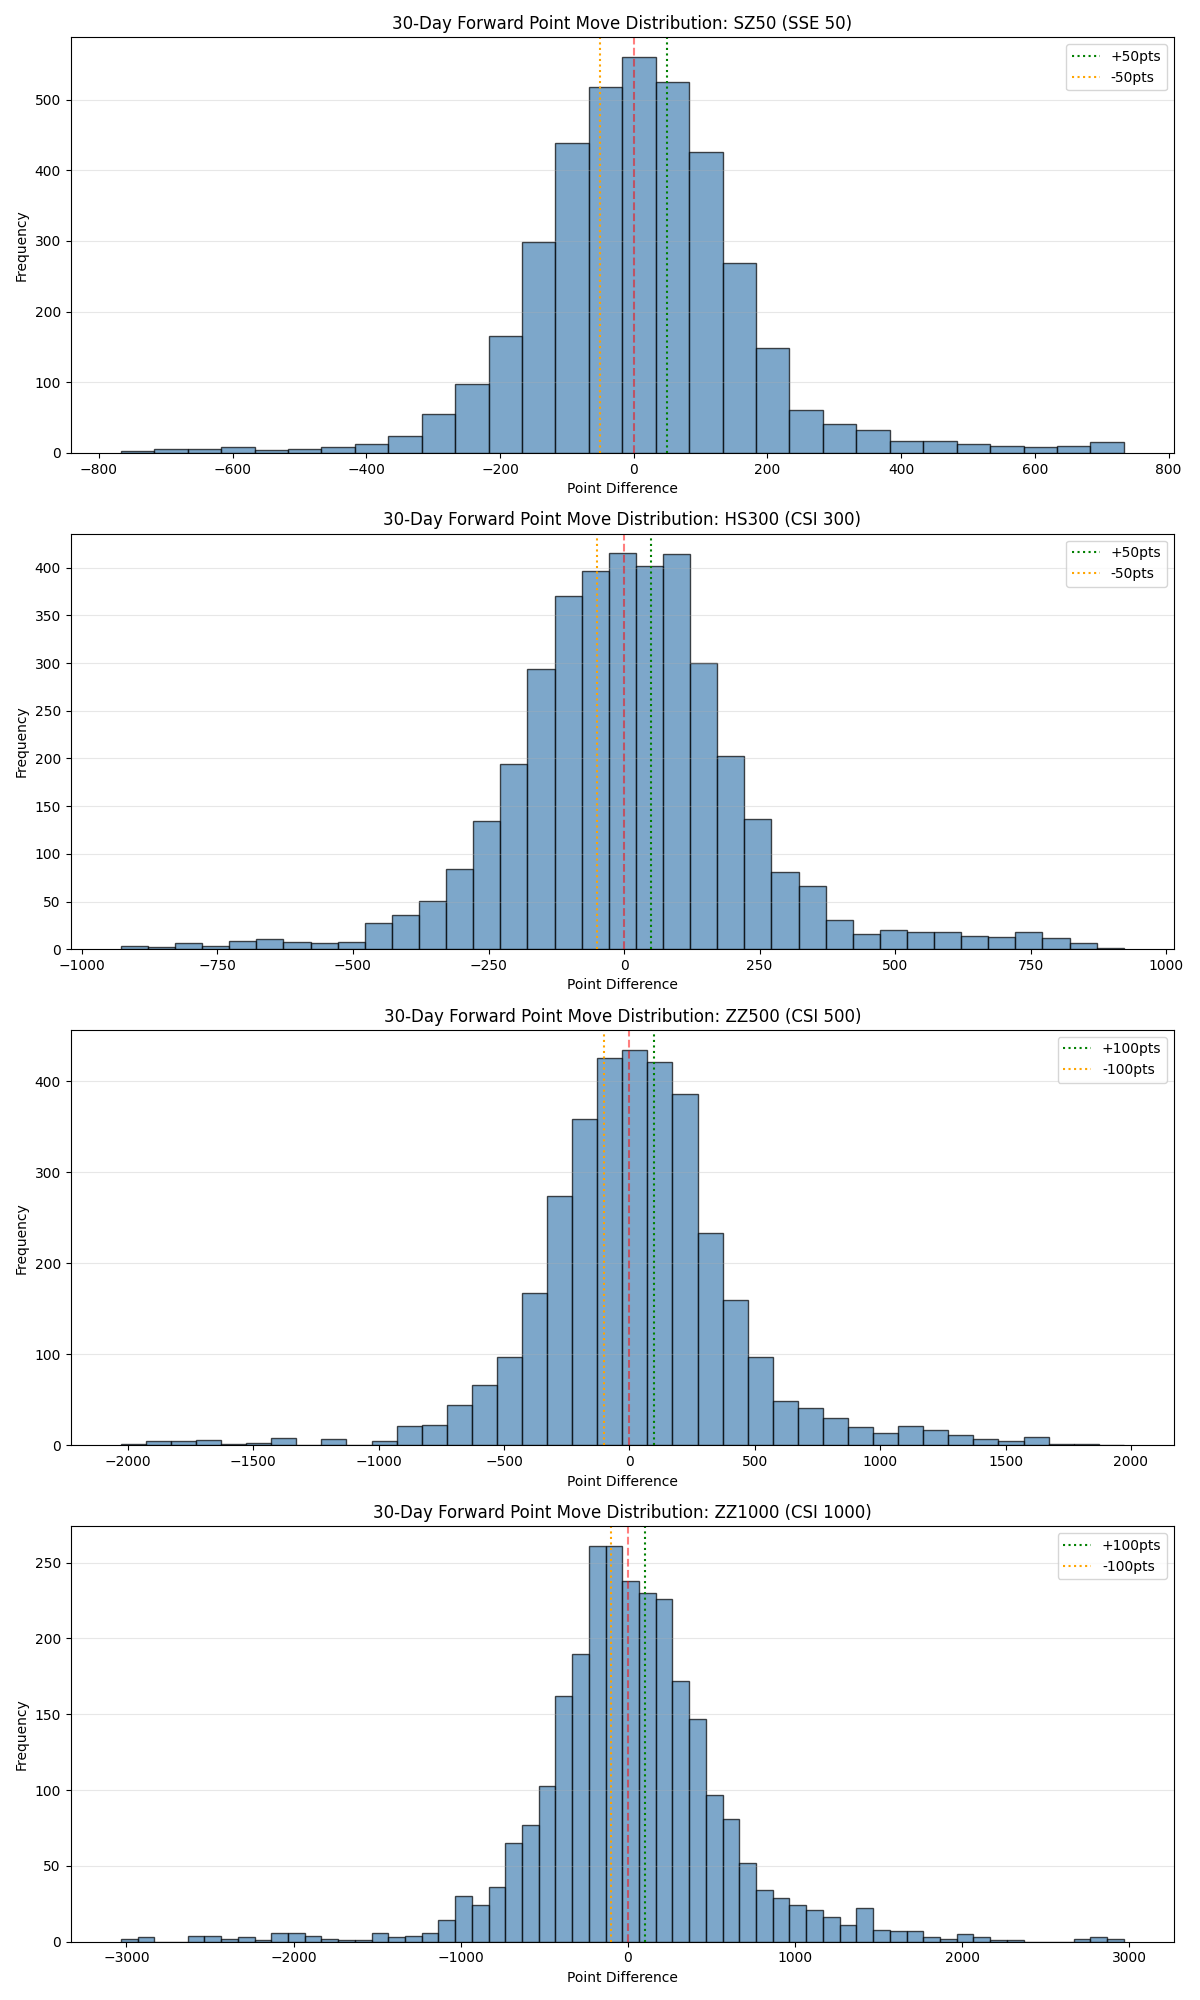
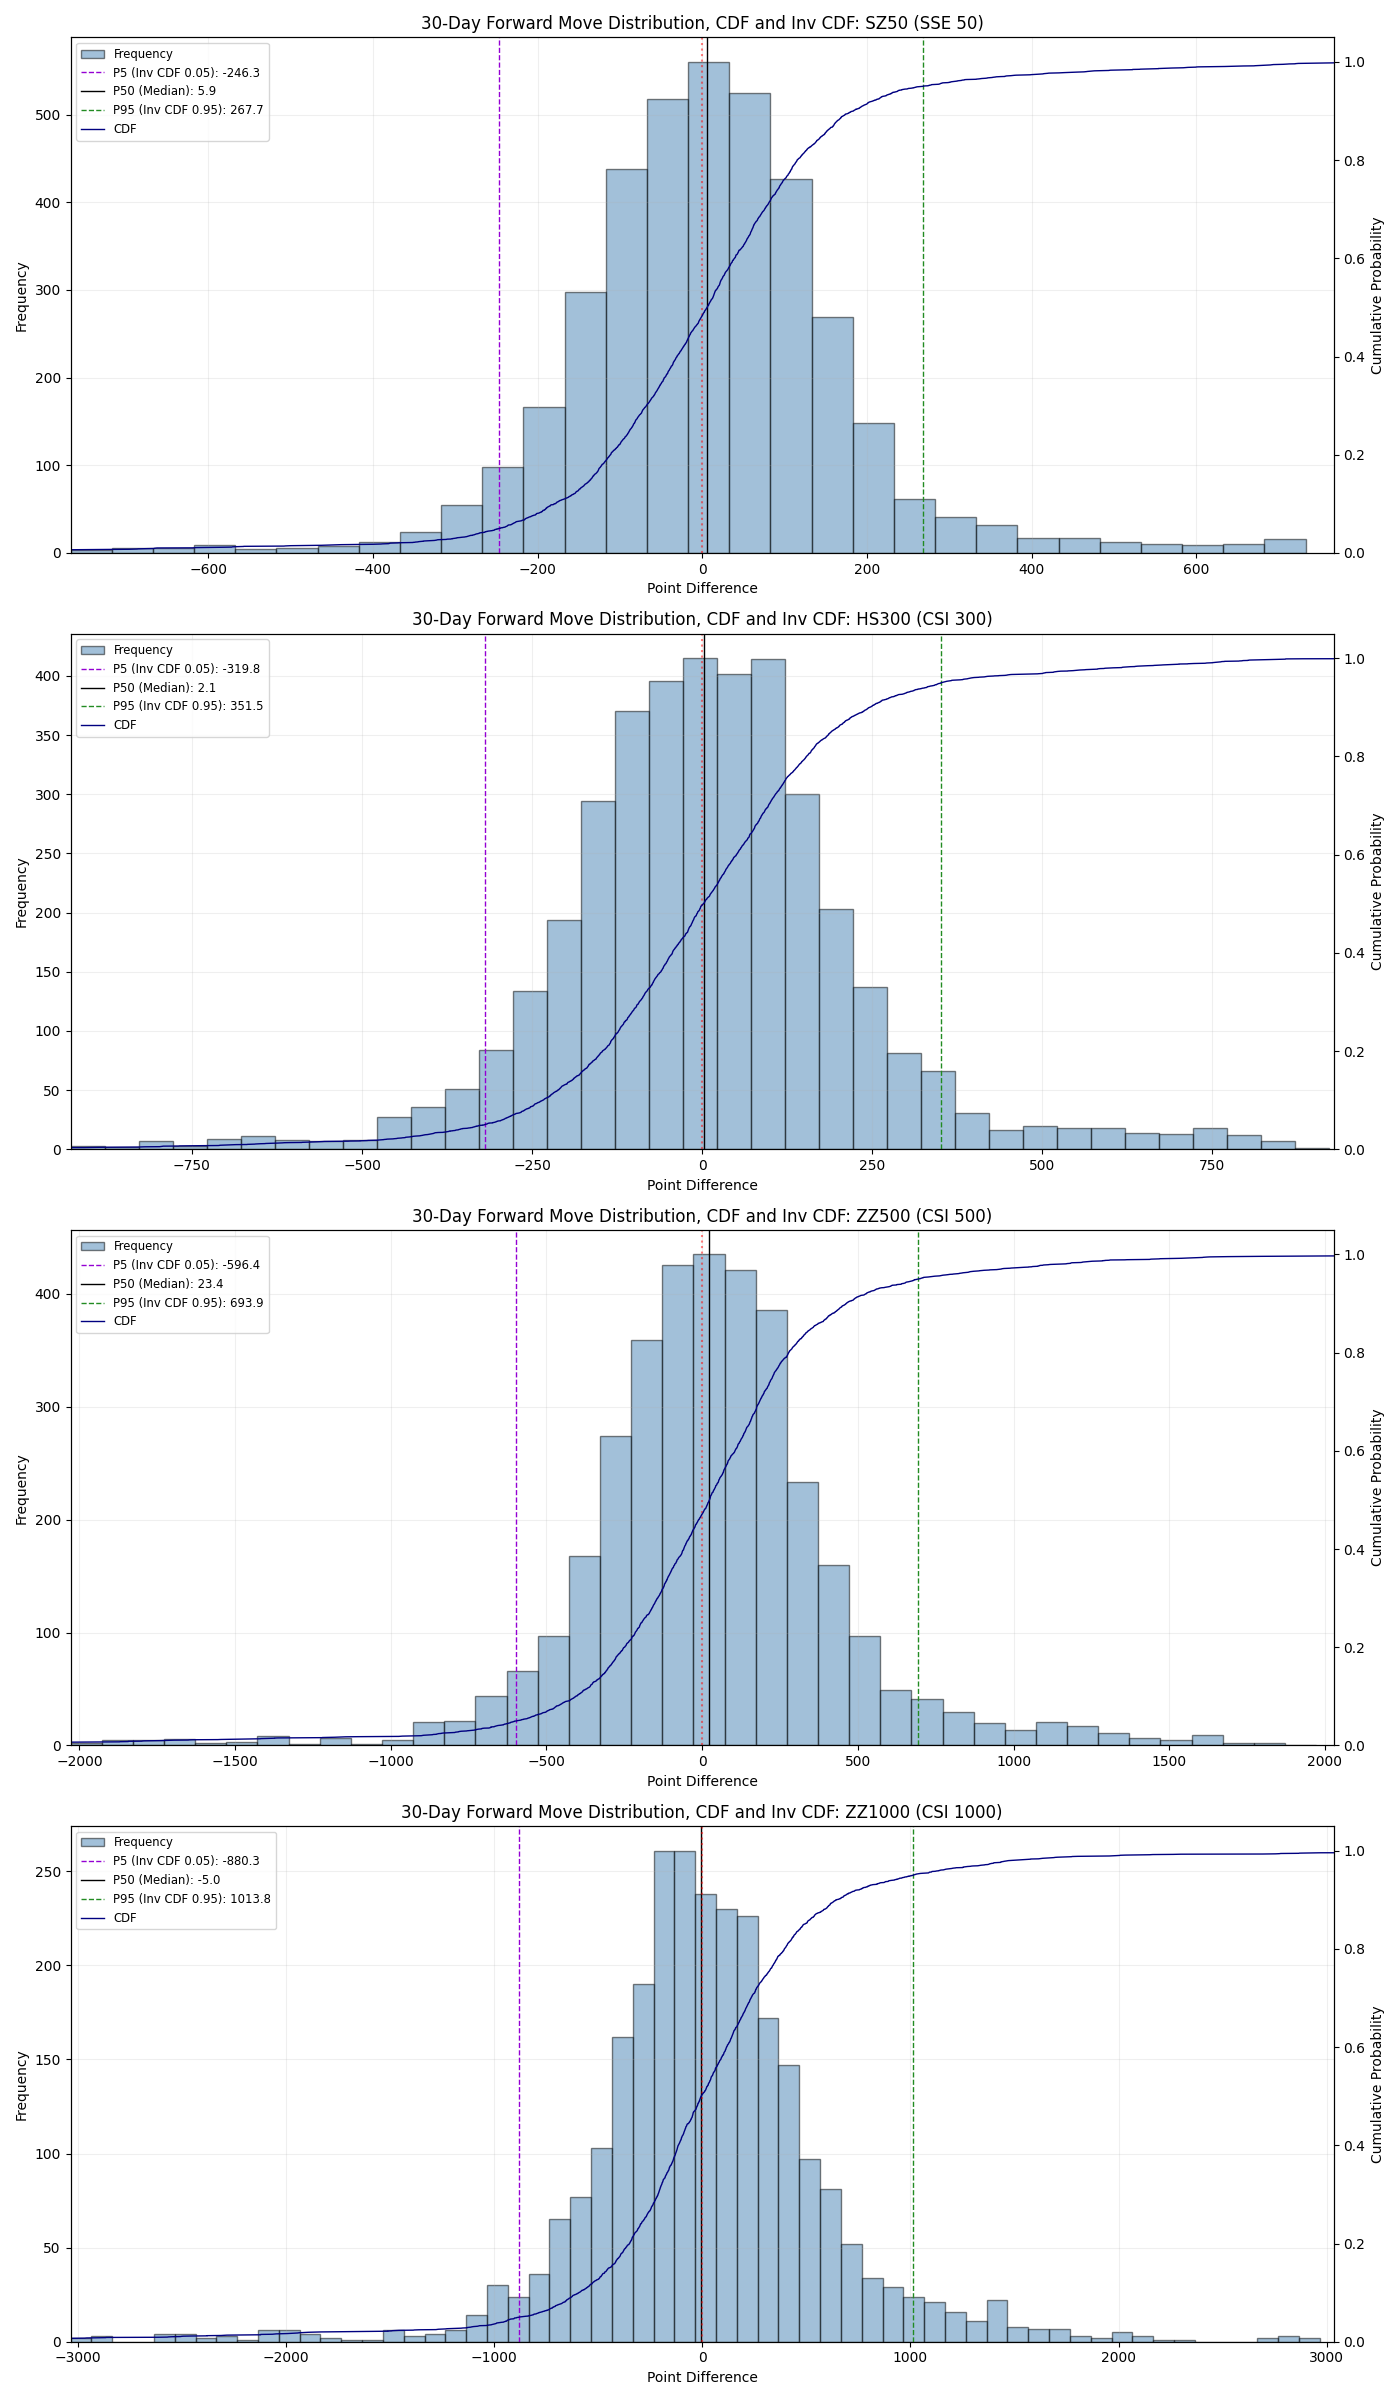
Process

diff --git a/display.py b/display.py
@@ -1,0 +1,245 @@
+import pandas as pd
+import numpy as np
+from scipy.stats import norm
+from scipy.optimize import brentq
+import sys
+import os
+import glob
+import math
+
+# Constants
+R = 0.02 # Risk-free rate (approximate)
+
+def black_scholes_price(S, K, T, r, sigma, option_type='C'):
+    if T <= 0:
+        return max(0, S - K) if option_type == 'C' else max(0, K - S)
+    if sigma <= 0:
+        return max(0, S - K) if option_type == 'C' else max(0, K - S)
+        
+    d1 = (np.log(S / K) + (r + 0.5 * sigma ** 2) * T) / (sigma * np.sqrt(T))
+    d2 = d1 - sigma * np.sqrt(T)
+    if option_type == 'C':
+        return S * norm.cdf(d1) - K * np.exp(-r * T) * norm.cdf(d2)
+    else:
+        return K * np.exp(-r * T) * norm.cdf(-d2) - S * norm.cdf(-d1)
+
+def find_iv(market_price, S, K, T, r, option_type='C'):
+    intrinsic = max(0, S - K) if option_type == 'C' else max(0, K - S)
+    if market_price <= intrinsic * 0.99:
+        return np.nan
+        
+    try:
+        def objective(sigma):
+            return black_scholes_price(S, K, T, r, sigma, option_type) - market_price
+        
+        # Check if 0.01% or 1000% vol brackets the solution
+        if objective(1e-4) * objective(10.0) > 0:
+            return np.nan
+            
+        return brentq(objective, 1e-4, 10.0)
+    except:
+        return np.nan
+
+def black_scholes_greeks(S, K, T, r, sigma, option_type='C'):
+    """
+    Calculate Greeks: Delta, Gamma, Theta, Vega, and Probability of Exercise (N(d2))
+    Vega is returned per 1% change in volatility (standard convention).
+    Theta is returned as per-day value.
+    ProbEx is N(d2) for calls and N(-d2) for puts.
+    """
+    if T <= 0 or pd.isna(sigma) or sigma <= 0:
+        # For zero-time or zero-vol, define limits
+        if T <= 0:
+            if option_type == 'C':
+                return (1.0 if S > K else 0.0), 0.0, 0.0, 0.0, (1.0 if S > K else 0.0)
+            else:
+                return (-1.0 if S < K else 0.0), 0.0, 0.0, 0.0, (1.0 if S < K else 0.0)
+        return 0.0, 0.0, 0.0, 0.0, 0.0
+    
+    sqrtT = np.sqrt(T)
+    d1 = (np.log(S / K) + (r + 0.5 * sigma ** 2) * T) / (sigma * sqrtT)
+    d2 = d1 - sigma * sqrtT
+    
+    pdf_d1 = norm.pdf(d1)
+    
+    if option_type == 'C':
+        delta = norm.cdf(d1)
+        prob_ex = norm.cdf(d2)
+        # Standard Theta formula for call
+        theta = (- (S * pdf_d1 * sigma) / (2 * sqrtT) 
+                 - r * K * np.exp(-r * T) * norm.cdf(d2))
+    else:
+        delta = norm.cdf(d1) - 1
+        prob_ex = norm.cdf(-d2)
+        # Standard Theta formula for put
+        theta = (- (S * pdf_d1 * sigma) / (2 * sqrtT) 
+                 + r * K * np.exp(-r * T) * norm.cdf(-d2))
+        
+    gamma = pdf_d1 / (S * sigma * sqrtT)
+    # Vega (standard convention: per 1% change in sigma)
+    vega = S * pdf_d1 * sqrtT / 100 
+    # Theta per day
+    theta_day = theta / 365
+    
+    return delta, gamma, theta_day, vega, prob_ex
+
+def display_option_chain(df):
+    """
+    Processes and displays the option data in a formatted T-table form.
+    """
+    # Filter out redundant columns if any, and handle potential naming variations
+    df.columns = df.columns.str.strip()
+    
+    # Required columns for calculation
+    required = {'type', 'strike', 'bprice', 'sprice', 'days_to_expire'}
+    if not required.issubset(df.columns):
+        print(f"[!] Warning: Data missing some required columns: {required - set(df.columns)}")
+        # Check if sprice/bprice are present under different names
+        # In some akshare versions they are different
+        return
+
+    # Determine Underlying Price (Future preferred for index options parity)
+    future_p = df['future_price'].iloc[0] if 'future_price' in df.columns else np.nan
+    spot_p = df['spot_price'].iloc[0] if 'spot_price' in df.columns else np.nan
+    
+    # S is the price used for calculations (prefer future_price if available, else spot)
+    S = future_p if not pd.isna(future_p) else spot_p
+    
+    if pd.isna(S):
+        print("[!] No spot_price or future_price found in data.")
+        return
+
+    dte = df['days_to_expire'].iloc[0]
+    T = dte / 365.0
+    r = R
+
+    # Pre-process: Mid Price and implied vol
+    df['mid'] = (df['bprice'] + df['sprice']) / 2
+    # Ensure mid price is valid
+    df = df[df['mid'] > 0].copy()
+    
+    # Calculate IV
+    df['iv'] = df.apply(lambda row: find_iv(row['mid'], S, row['strike'], T, r, row['type']), axis=1)
+    
+    # Greeks
+    greek_vals = df.apply(lambda row: black_scholes_greeks(S, row['strike'], T, r, row['iv'], row['type']), axis=1)
+    df[['delta', 'gamma', 'theta', 'vega', 'prob_ex']] = pd.DataFrame(greek_vals.tolist(), index=df.index)
+
+    # Pivot into Call and Put
+    calls = df[df['type'] == 'C'].copy().set_index('strike')
+    puts = df[df['type'] == 'P'].copy().set_index('strike')
+    
+    all_strikes = sorted(df['strike'].unique())
+    
+    # Find two strikes closest to spot_price
+    ref_price = spot_p if not pd.isna(spot_p) else S
+    closest_strikes = sorted(all_strikes, key=lambda x: abs(x - ref_price))[:2]
+
+    # Build Header
+    ticker = df['ticker'].iloc[0] if 'ticker' in df.columns else "Unknown"
+    print("\n" + "="*138)
+    print(f" OPTION CHAIN: {ticker:^15} | Spot: {spot_p:>8.2f} | Future: {future_p:>8.2f} | DTE: {dte:>3} | Rate: {r*100:>4.1f}% ")
+    print("="*138)
+    
+    col_width = 7
+    # Group Labels: 8 columns on each side now (IV, Prob, Delta, Gamma, Theta, Vega, Bid, Ask)
+    # Total separator pipes on each side: 7
+    call_group_label = "CALL (Greeks & Prices)".center(col_width * 8 + 7)
+    put_group_label = "PUT (Prices & Greeks)".center(col_width * 8 + 7)
+    print(f"{call_group_label} | {' '*col_width} | {put_group_label}")
+    
+    # Header format
+    headers = [
+        "IV %", "Prob", "Delta", "Gamma", "Theta", "Vega", "Bid", "Ask", 
+        "STRIKE", 
+        "Bid", "Ask", "IV %", "Prob", "Delta", "Gamma", "Theta", "Vega"
+    ]
+    
+    def pad(s, w=col_width): return str(s).center(w)
+    
+    h_str = "|".join([pad(h) for h in headers[:8]]) + " | " + pad(headers[8]) + " | " + "|".join([pad(h) for h in headers[9:]])
+    print(h_str)
+    print("-" * len(h_str))
+
+    for K in all_strikes:
+        c = calls.loc[K] if K in calls.index else None
+        p = puts.loc[K] if K in puts.index else None
+        
+        def f(val, fmt=".3f"):
+            if pd.isna(val) or val is None: return "-".center(col_width)
+            if isinstance(val, str): return val.center(col_width)
+            return f"{val:{fmt}}".center(col_width)
+
+        def f_price(val):
+            if pd.isna(val) or val is None: return "-".center(col_width)
+            return f"{val:>.1f}".center(col_width)
+
+        def f_iv(val):
+            if pd.isna(val) or val is None: return "-".center(col_width)
+            return f"{val*100:>.1f}".center(col_width)
+
+        # Call data
+        c_vals = [
+            f_iv(c['iv']) if c is not None else f(None),
+            f(c['prob_ex']) if c is not None else f(None),
+            f(c['delta']) if c is not None else f(None),
+            f(c['gamma']) if c is not None else f(None),
+            f(c['theta']) if c is not None else f(None),
+            f(c['vega']) if c is not None else f(None),
+            f_price(c['bprice']) if c is not None else f(None),
+            f_price(c['sprice']) if c is not None else f(None)
+        ]
+        
+        # Put data
+        p_vals = [
+            f_price(p['bprice']) if p is not None else f(None),
+            f_price(p['sprice']) if p is not None else f(None),
+            f_iv(p['iv']) if p is not None else f(None),
+            f(p['prob_ex']) if p is not None else f(None),
+            f(p['delta']) if p is not None else f(None),
+            f(p['gamma']) if p is not None else f(None),
+            f(p['theta']) if p is not None else f(None),
+            f(p['vega']) if p is not None else f(None)
+        ]
+        
+        # Format strike label with asterisks if it's one of the closest to spot
+        strike_label = str(int(K))
+        if K in closest_strikes:
+            strike_label = f"*{strike_label}*"
+            
+        row_str = "|".join(c_vals) + " | " + pad(strike_label) + " | " + "|".join(p_vals)
+        print(row_str)
+
+    print("-" * len(h_str))
+    print(f"Notes: IV % is Implied Vol. Prob is prob. of exercise. Greeks via BS. Theta/day. Vega/1% vol.")
+    print("="*138 + "\n")
+
+def main():
+    if len(sys.argv) < 2:
+        print("Usage: python display.py <path_to_option_csv>")
+        # Try to find a sample file to display if no arg passed
+        available_files = glob.glob("option_data/202*/*.csv")
+        if available_files:
+            target = sorted(available_files, key=os.path.getmtime, reverse=True)[0]
+            print(f"No file specified. Using latest found: {target}")
+            df = pd.read_csv(target)
+            display_option_chain(df)
+        else:
+            print("No data files found in option_data/")
+        return
+
+    path = sys.argv[1]
+    if os.path.isfile(path):
+        df = pd.read_csv(path)
+        display_option_chain(df)
+    elif os.path.isdir(path):
+        files = sorted(glob.glob(os.path.join(path, "*.csv")))
+        for f in files:
+            print(f"\nProcessing {os.path.basename(f)}...")
+            df = pd.read_csv(f)
+            display_option_chain(df)
+    else:
+        print(f"Error: Path {path} not found.")
+
+if __name__ == "__main__":
+    main()

diff --git a/alpha_finder_30d.py b/alpha_finder_30d.py
@@ -81,34 +81,65 @@ def get_distribution(df, bucket_size):
     
     return dist.sort_values('Bucket')
 
+def get_cdf(series, value):
+    """Returns the cumulative probability P(X <= value)."""
+    return (series <= value).mean() * 100
+
+def get_inverse_cdf(series, percentile):
+    """Returns the value x such that P(X <= x) = percentile (0.0 to 1.0)."""
+    return series.quantile(percentile)
+
 def plot_distributions(all_returns, bucket_sizes):
     """Generates histogram plots for the return distributions."""
     num_indices = len(all_returns)
     if num_indices == 0: return
     
-    fig, axes = plt.subplots(num_indices, 1, figsize=(12, 5 * num_indices))
+    fig, axes = plt.subplots(num_indices, 1, figsize=(14, 6 * num_indices))
     if num_indices == 1: axes = [axes]
     
     for i, (name, df) in enumerate(all_returns.items()):
         ax = axes[i]
         bs = bucket_sizes[name]
+        data = df['Point_Diff']
         
-        # Determine range for plotting (central 95%)
-        std = df['Point_Diff'].std()
+        # Determine range for plotting
+        std = data.std()
         plot_range = (-4*std, 4*std)
         
-        ax.hist(df['Point_Diff'], bins=np.arange(plot_range[0], plot_range[1], bs), 
-                alpha=0.7, color='steelblue', edgecolor='black')
+        # 1. Histogram (Frequency)
+        ax.hist(data, bins=np.arange(plot_range[0], plot_range[1], bs), 
+                alpha=0.5, color='steelblue', edgecolor='black', label='Frequency')
         
-        ax.axvline(0, color='red', linestyle='--', alpha=0.5)
-        ax.axvline(bs, color='green', linestyle=':', label=f'+{bs}pts')
-        ax.axvline(-bs, color='orange', linestyle=':', label=f'-{bs}pts')
+        # 2. CDF Curve (on twin axis)
+        ax2 = ax.twinx()
+        sorted_samples = np.sort(data)
+        probabilities = np.linspace(0, 1, len(sorted_samples))
+        ax2.plot(sorted_samples, probabilities, color='navy', linewidth=1, label='CDF')
+        ax2.set_ylabel("Cumulative Probability")
+        ax2.set_ylim(0, 1.05)
         
-        ax.set_title(f"30-Day Forward Point Move Distribution: {name}")
+        # 3. Inverse CDF / Quantiles (Vertical Lines)
+        p5 = get_inverse_cdf(data, 0.05)
+        p50 = get_inverse_cdf(data, 0.50)
+        p95 = get_inverse_cdf(data, 0.95)
+        
+        ax.axvline(p5, color='darkviolet', linestyle='--', linewidth=1, label=f'P5 (Inv CDF 0.05): {p5:.1f}')
+        ax.axvline(p50, color='black', linestyle='-', linewidth=1, label=f'P50 (Median): {p50:.1f}')
+        ax.axvline(p95, color='forestgreen', linestyle='--', linewidth=1, label=f'P95 (Inv CDF 0.95): {p95:.1f}')
+        
+        # Reference line at 0
+        ax.axvline(0, color='red', linestyle=':', alpha=0.5, linewidth=1.5)
+        
+        ax.set_title(f"30-Day Forward Move Distribution, CDF and Inv CDF: {name}")
         ax.set_xlabel("Point Difference")
         ax.set_ylabel("Frequency")
-        ax.legend()
-        ax.grid(axis='y', alpha=0.3)
+        ax.set_xlim(plot_range)
+        
+        # Combine legends from both axes
+        h1, l1 = ax.get_legend_handles_labels()
+        h2, l2 = ax2.get_legend_handles_labels()
+        ax.legend(h1 + h2, l1 + l2, loc='upper left', fontsize='small')
+        ax.grid(axis='both', alpha=0.2)
 
     plt.tight_layout()
     plt.savefig('alpha_30d_distribution.png')
@@ -146,9 +177,12 @@ def run_analysis():
             'Index': name,
             '30d Avg Point Move': returns_df['Point_Diff'].mean(),
             '30d Std Dev Points': returns_df['Point_Diff'].std(),
-            '30d Avg Return %': returns_df['Return_Pct'].mean() * 100,
-            f'Prob Move < -{bucket_size}pts (%)': dist[dist['Bucket'] < 0]['Probability (%)'].sum(),
-            f'Prob Move > +{bucket_size}pts (%)': dist[dist['Bucket'] >= 1]['Probability (%)'].sum()
+            'P(Neg Move) %': get_cdf(returns_df['Point_Diff'], 0),
+            'P5 % (pts)': get_inverse_cdf(returns_df['Point_Diff'], 0.05),
+            'P50 % (Median pts)': get_inverse_cdf(returns_df['Point_Diff'], 0.50),
+            'P95 % (pts)': get_inverse_cdf(returns_df['Point_Diff'], 0.95),
+            f'Prob < -{bucket_size}pts (%)': dist[dist['Bucket'] < 0]['Probability (%)'].sum(),
+            f'Prob > +{bucket_size}pts (%)': dist[dist['Bucket'] >= 1]['Probability (%)'].sum()
         })
 
     summary_df = pd.DataFrame(summary_stats)
